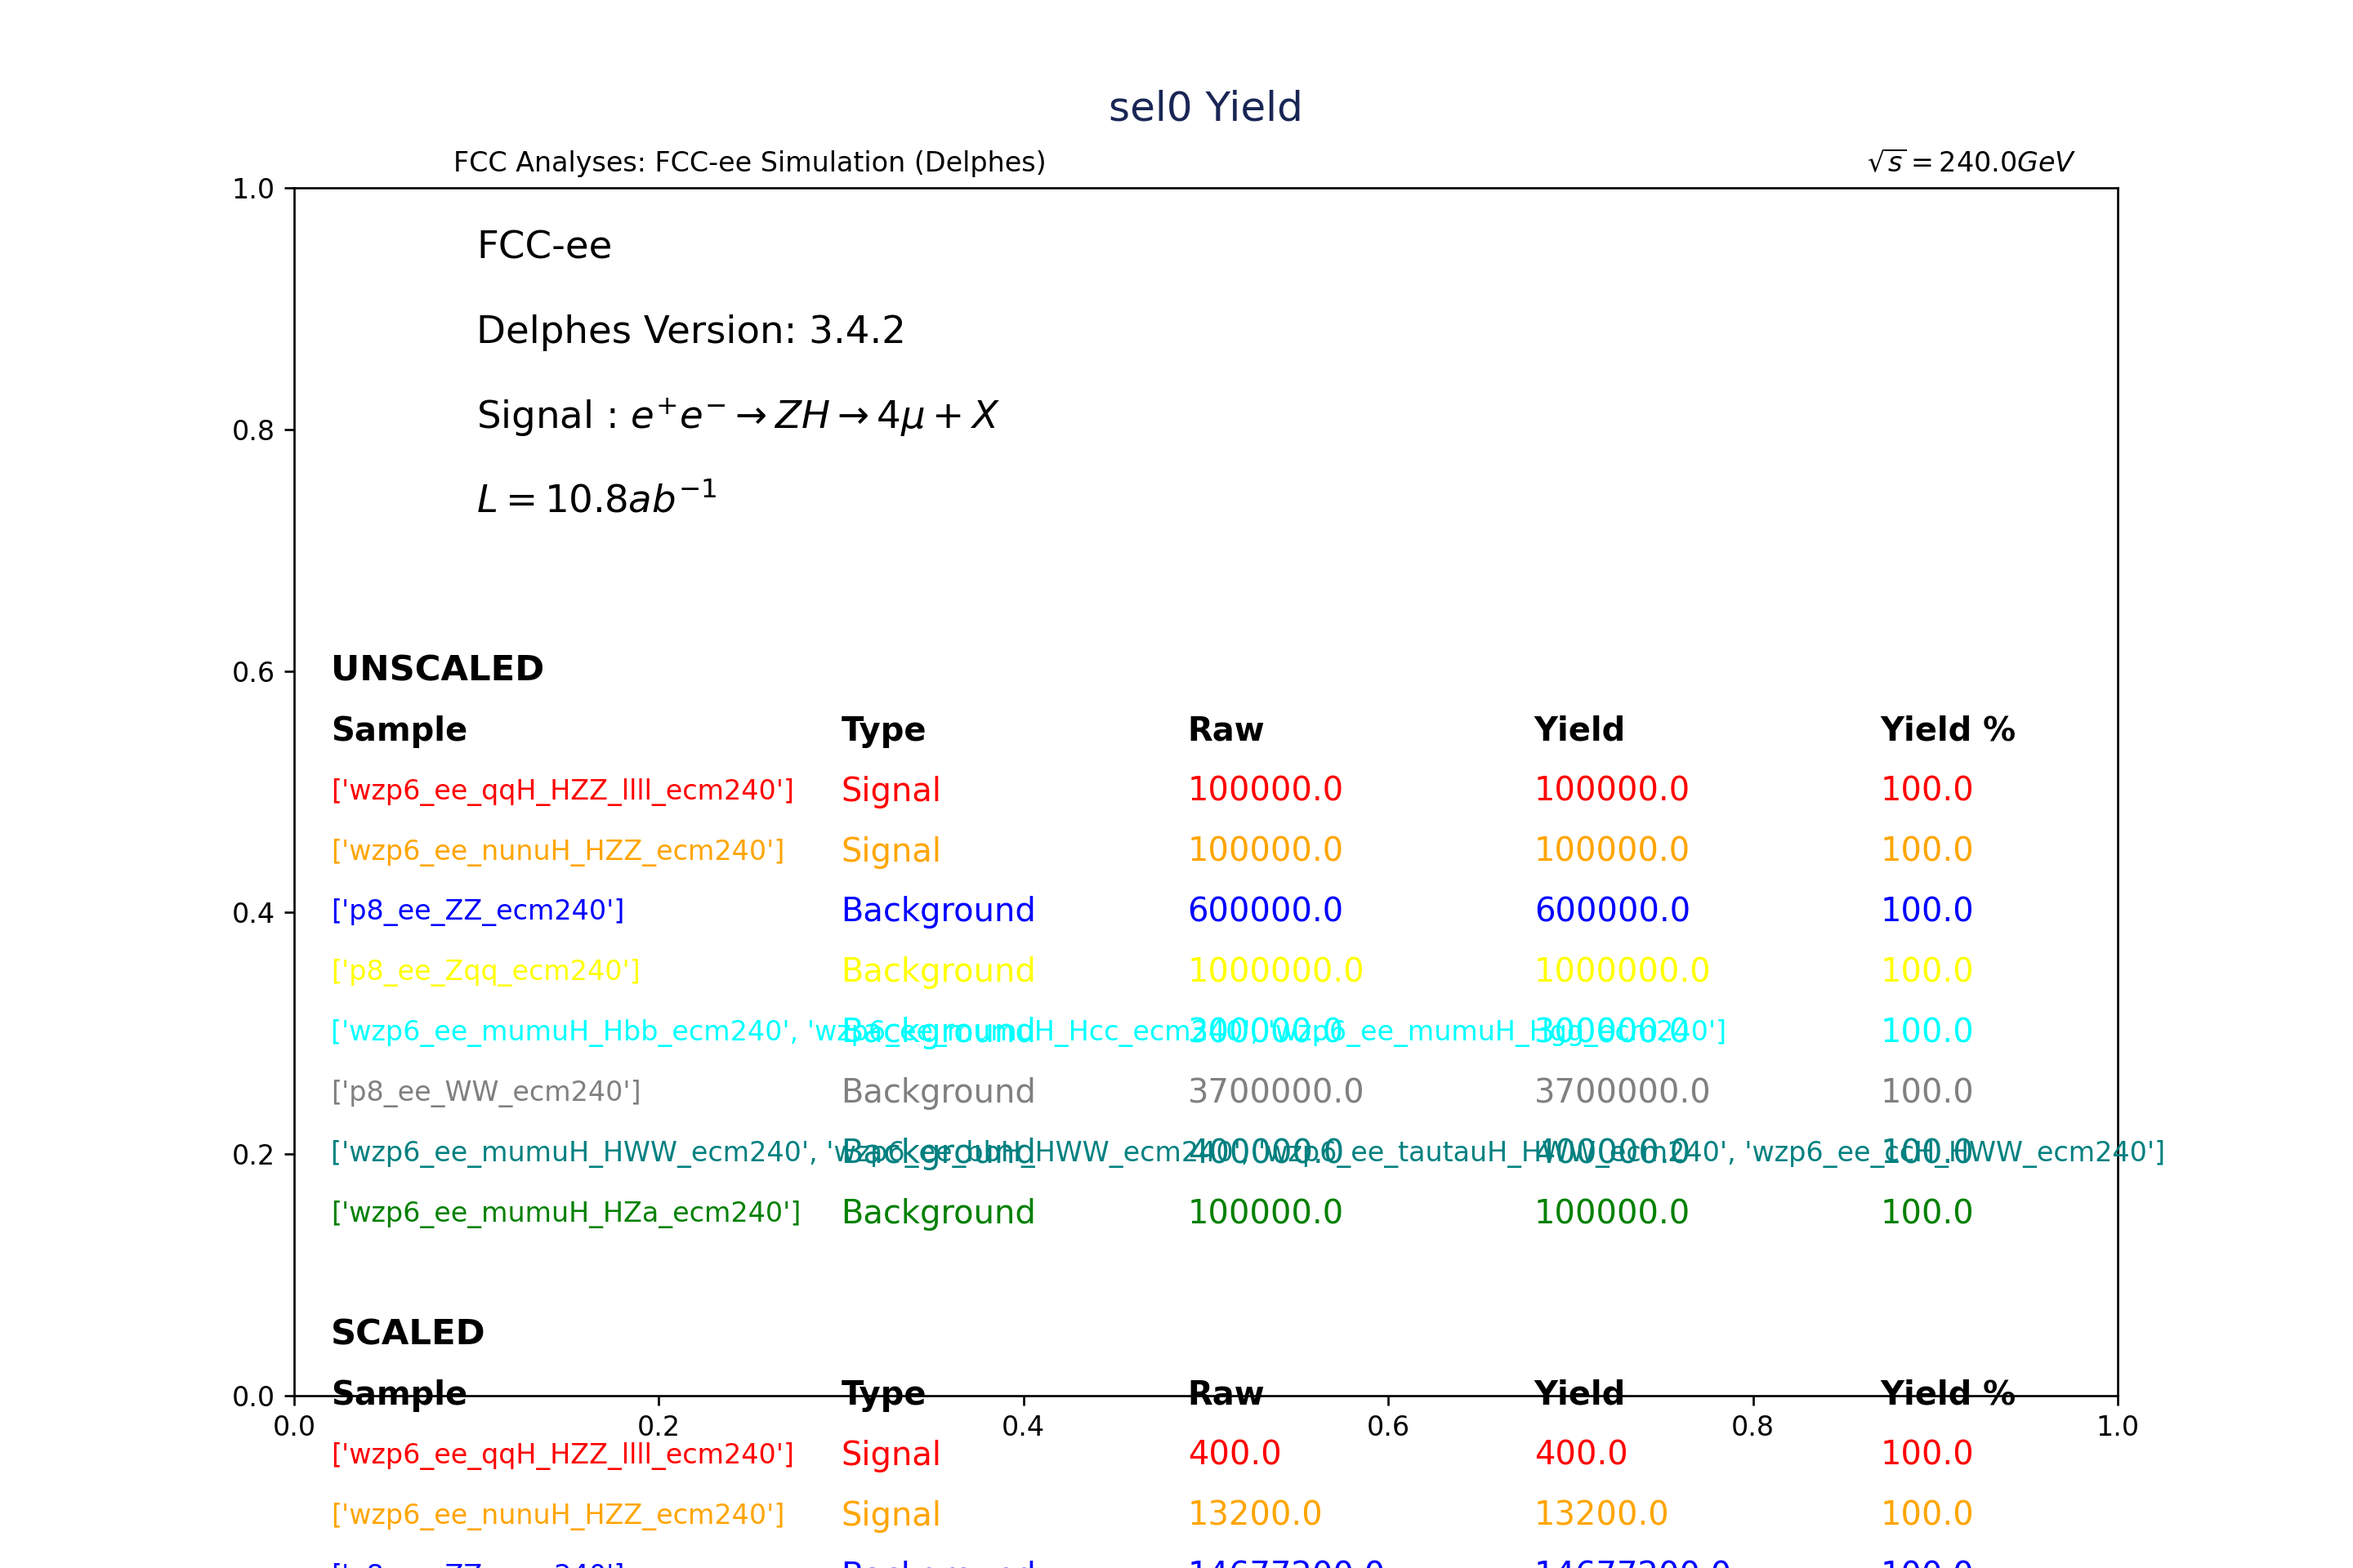
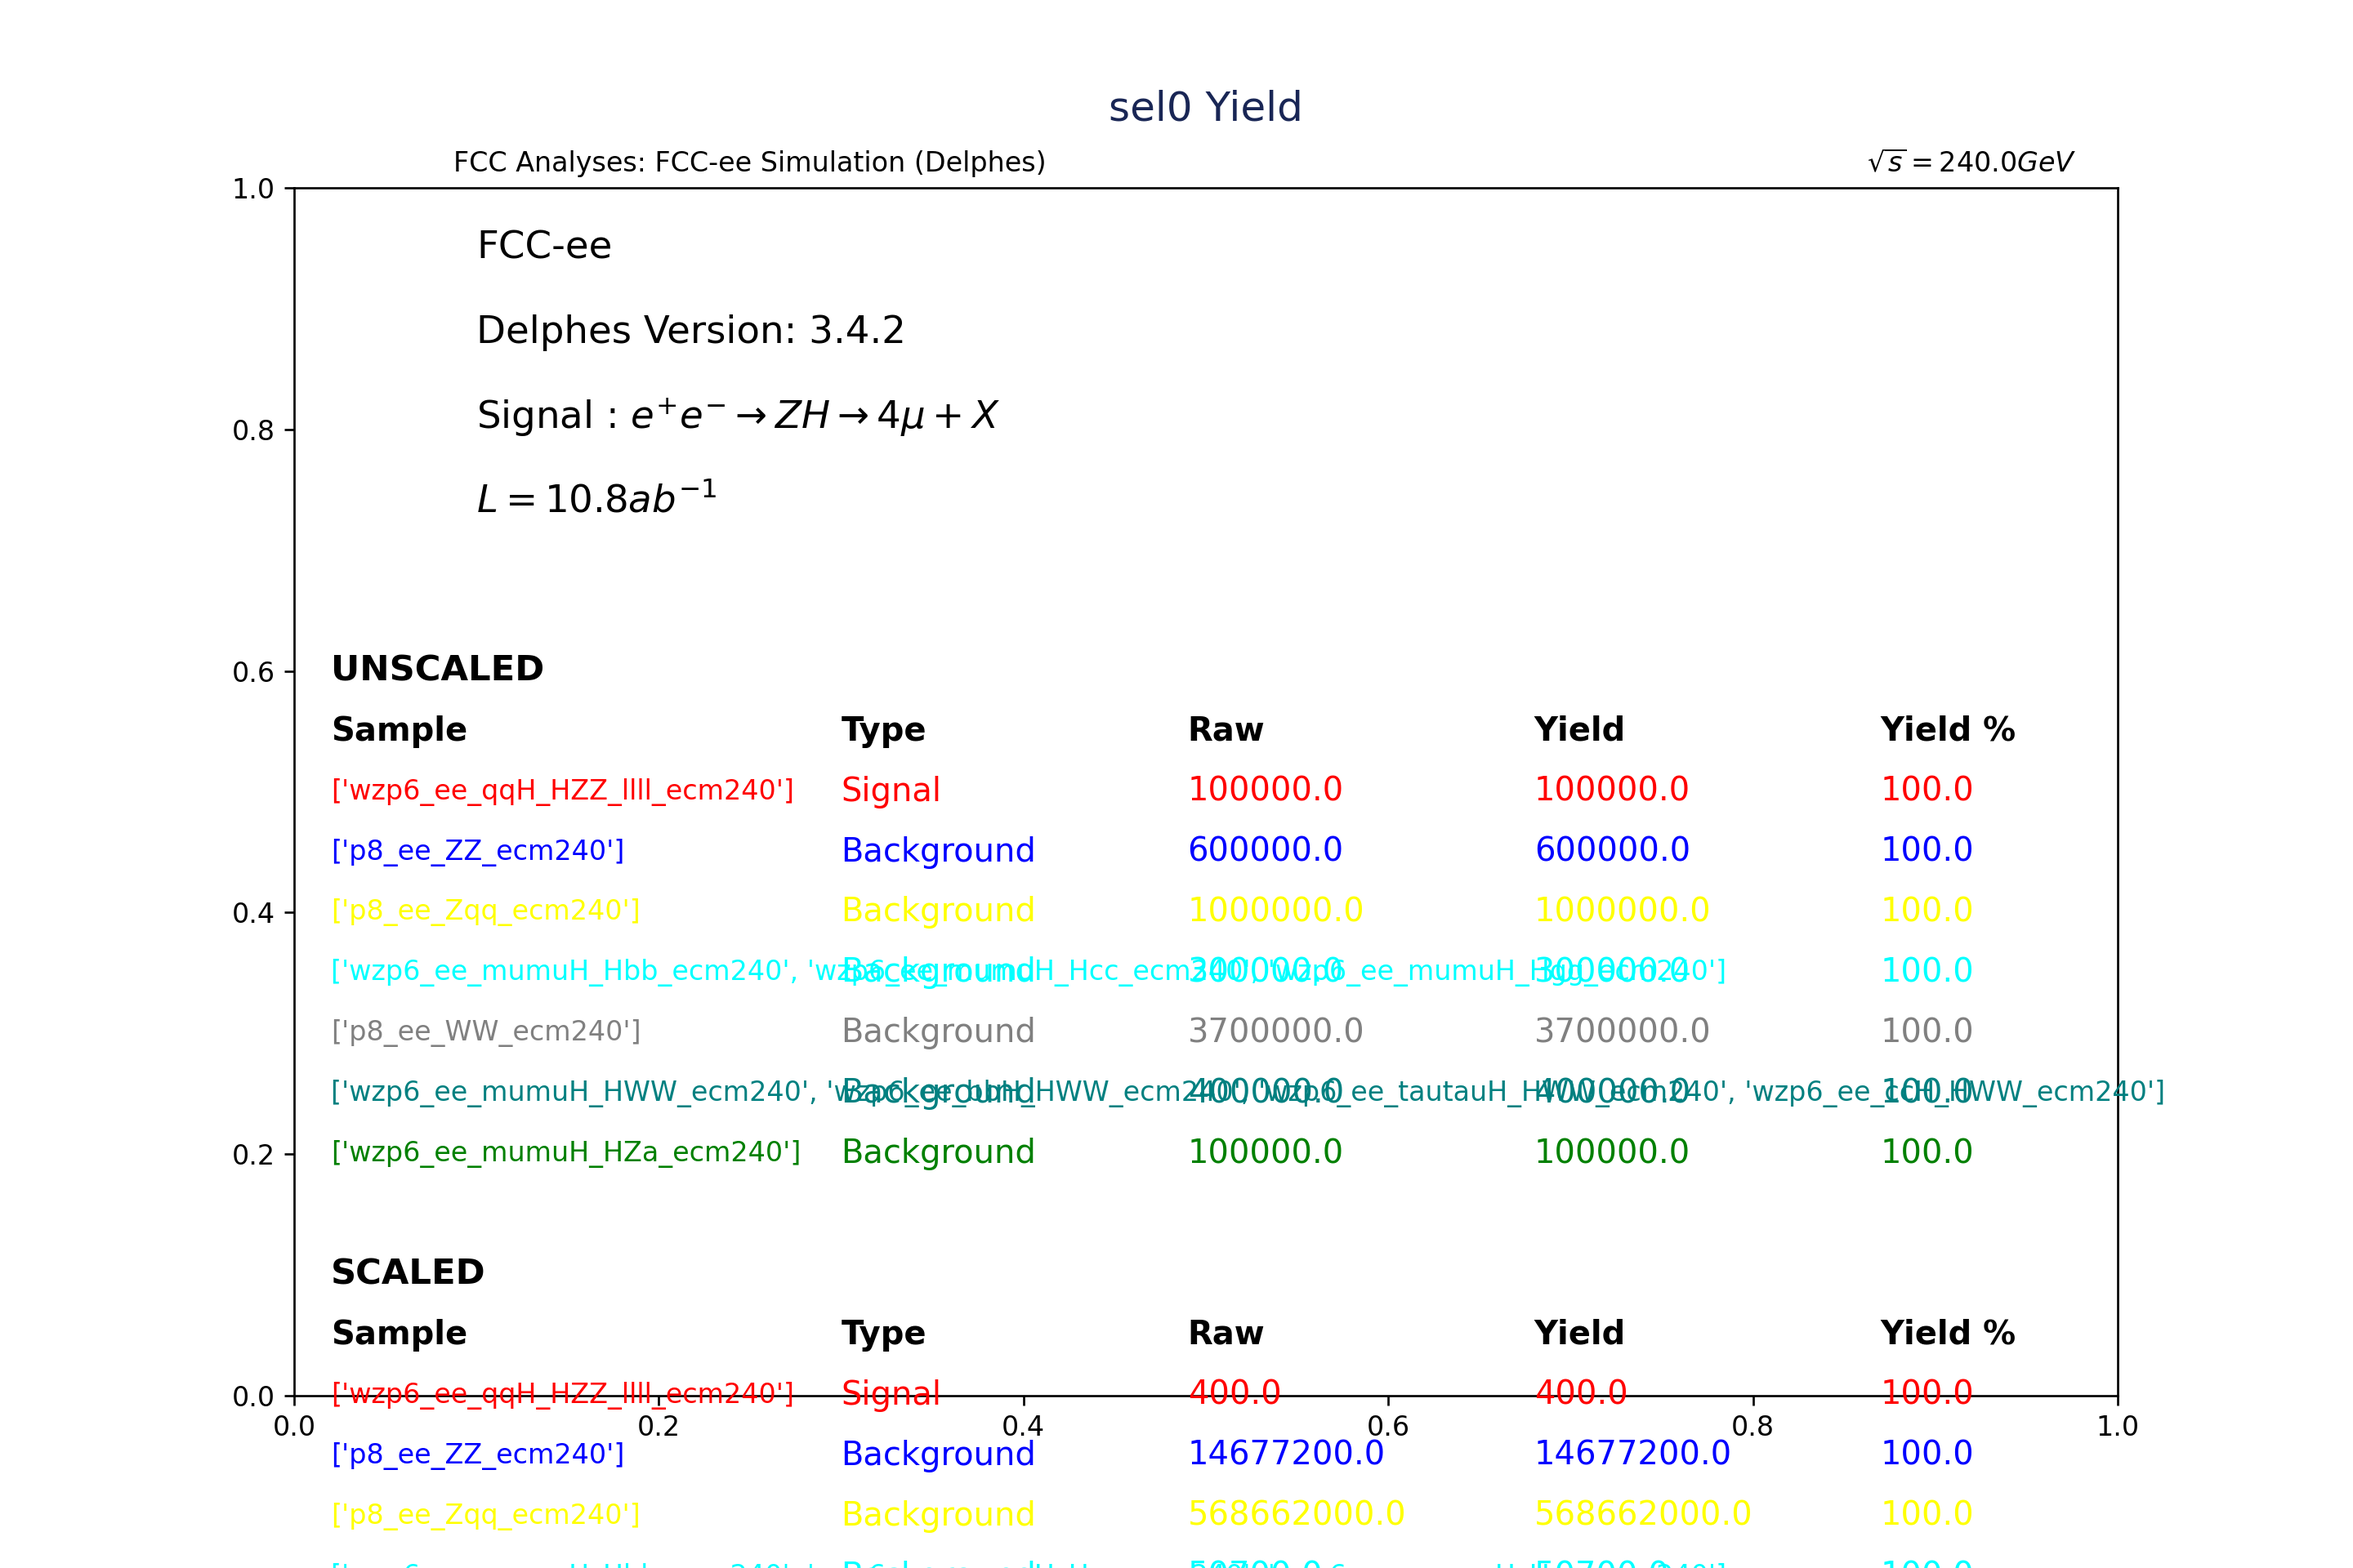
Multiple signals in plotting doesnt work

diff --git a/examples/FCCee/higgs/4leptons/config.py b/examples/FCCee/higgs/4leptons/config.py
@@ -95,7 +95,7 @@ req_plots = ['selectedmuons_p','fourmuons_mass','fourmuons_pmin','Z_res_mass','Z
 req_hists = {
         #Signal
         "qqH_HZZ":{"type":'Signal',"datasets":['wzp6_ee_qqH_HZZ_llll_ecm240'],"color":'red'},
-        "nunuH_HZZ":{"type":'Signal',"datasets":['wzp6_ee_nunuH_HZZ_ecm240'],"color":'orange'},
+#        "nunuH_HZZ":{"type":'Signal',"datasets":['wzp6_ee_nunuH_HZZ_ecm240'],"color":'orange'},
         #Background
         "ZZ":{"type":'Background',"datasets":['p8_ee_ZZ_ecm240'],"color":'blue'},
         "Zqq":{"type":'Background',"datasets":['p8_ee_Zqq_ecm240'],"color":'yellow'},

diff --git a/examples/FCCee/higgs/4leptons/plotter.py b/examples/FCCee/higgs/4leptons/plotter.py
@@ -292,7 +292,7 @@ def generate_plots(input_dict, req_hists, req_plots, selections, stack, log, for
                         sigl_hist = sum(hist_signal)+sum(hist) #Manual stacking because independent stacking is not supported in mplhep
                     else :
                         sigl_hist = hist_signal
-
+                    print(sigl_hist)
                     hep.histplot(
                         sigl_hist,
                         color=color_list_signal,
